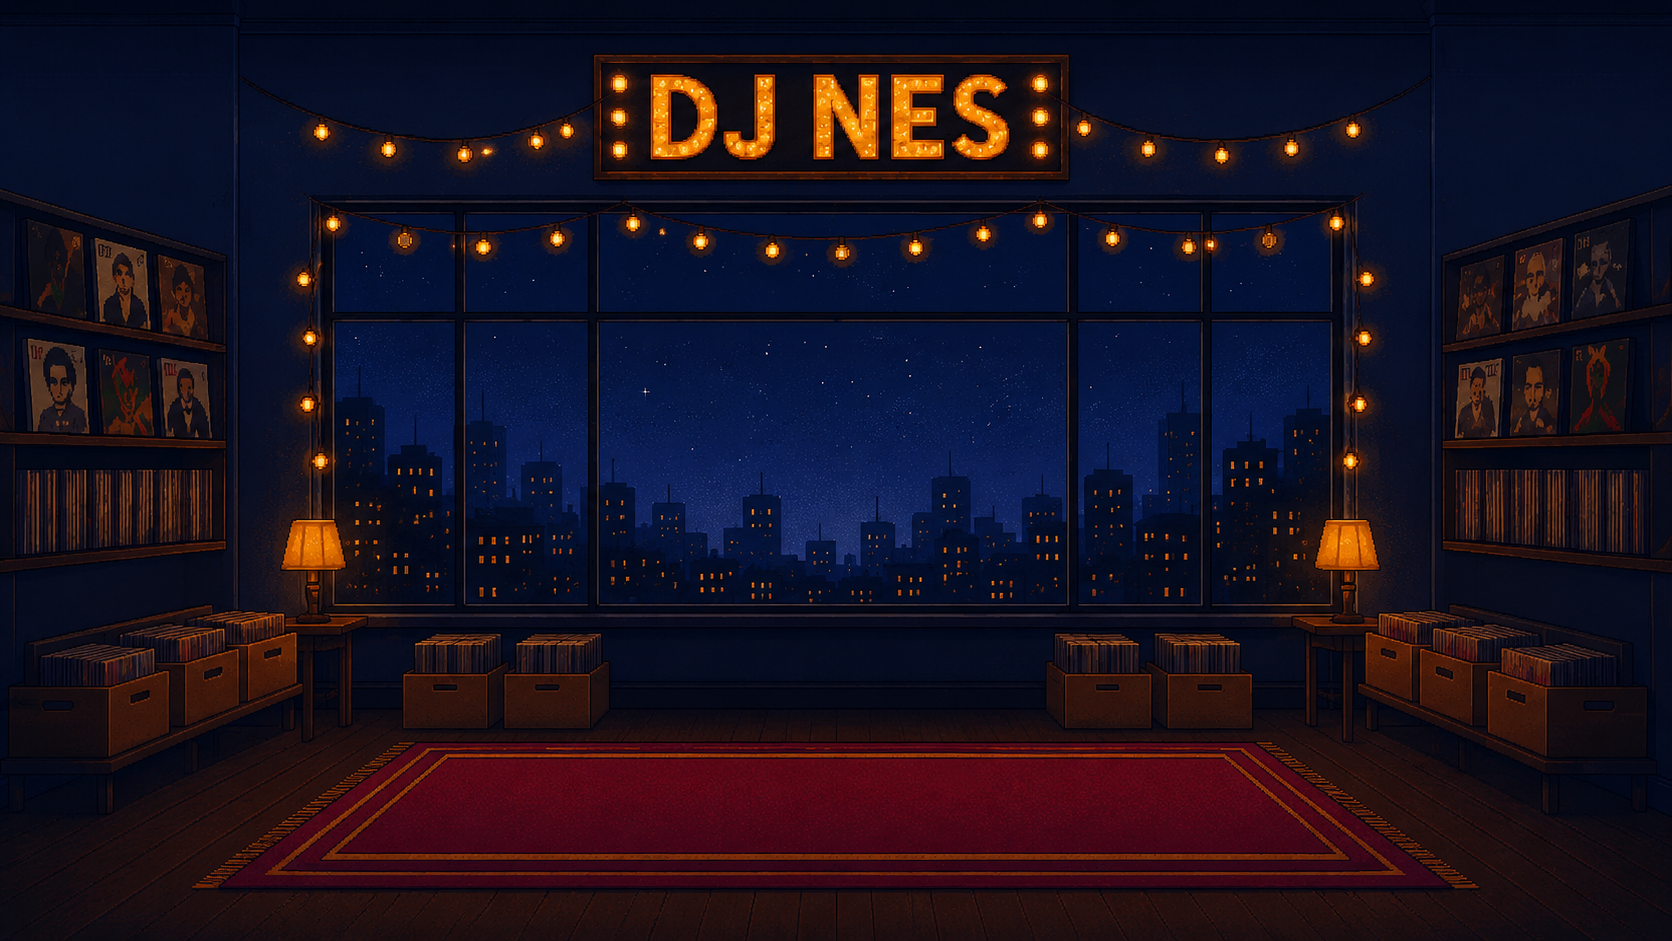
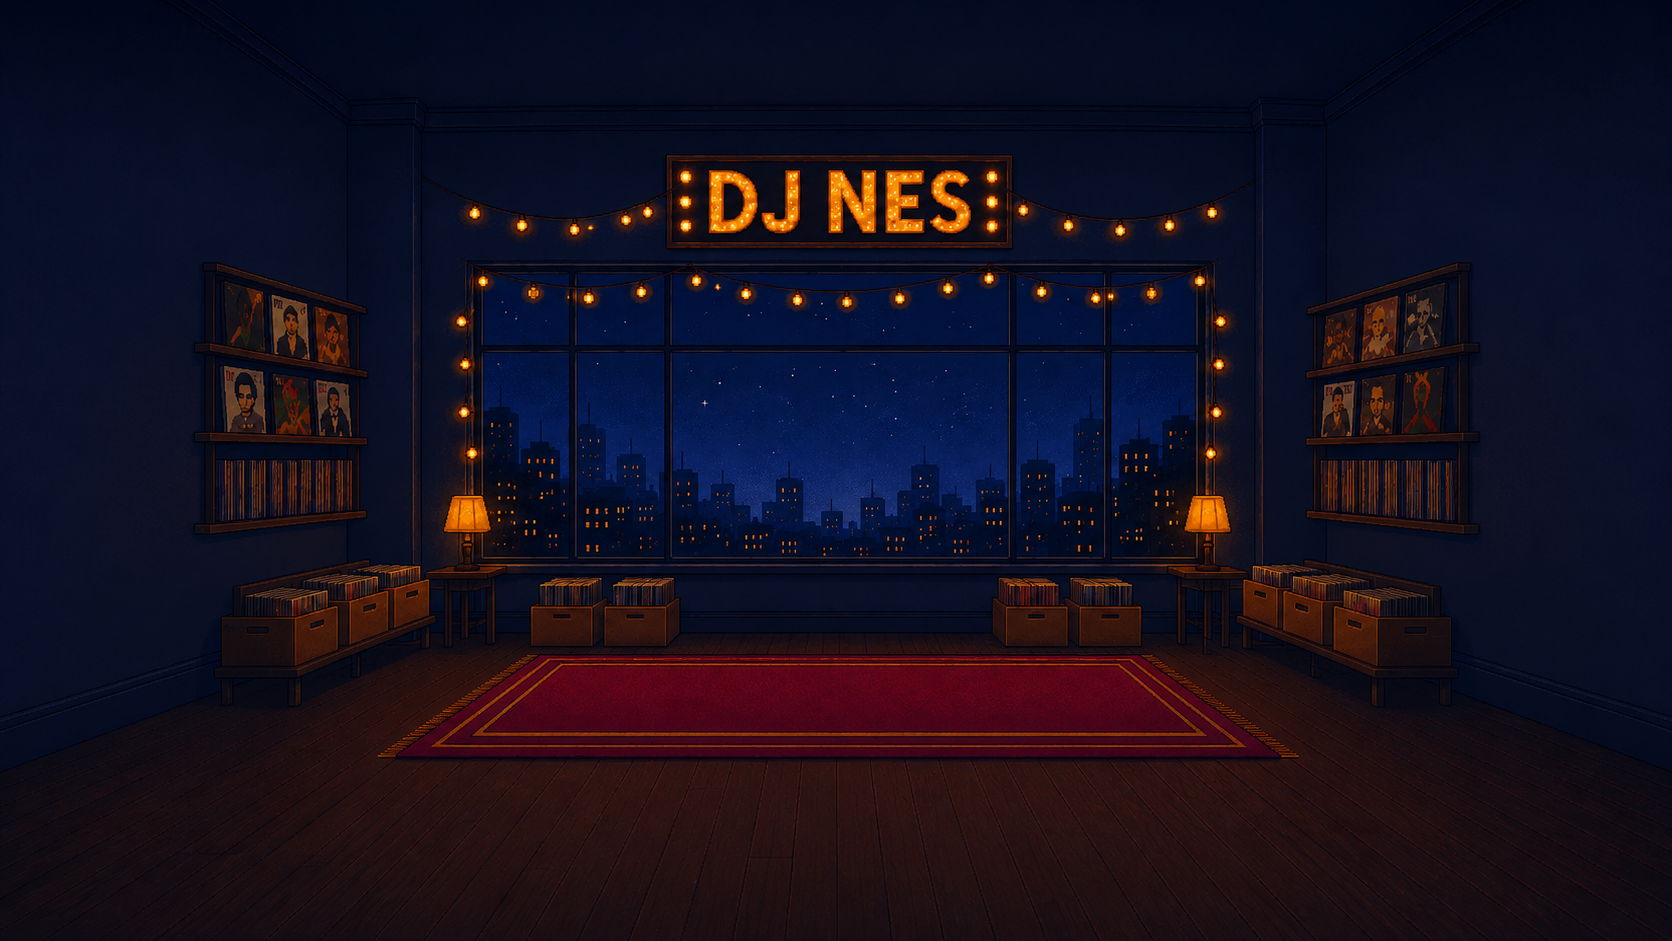
Add files via upload

diff --git a/src/styles.css b/src/styles.css
@@ -1013,3 +1013,43 @@ html, body, #app {
 .fill-right::after {
   background: linear-gradient(270deg, rgba(7, 16, 31, 0), rgba(7, 16, 31, 0.12));
 }
+
+
+/* ===========================================================
+   v1.10 seam-blend polish.
+   New room core has more breathing room at the edges. The fill zones
+   now overlap slightly behind the core room so seams are hidden.
+   =========================================================== */
+
+.stage {
+  --seam-overlap: 8px;
+}
+
+.fill-top {
+  height: max(0px, calc(var(--scene-top) + var(--seam-overlap)));
+}
+
+.fill-top .fill-img {
+  bottom: calc(-1 * var(--seam-overlap));
+}
+
+.fill-bottom {
+  height: max(0px, calc(100vh - var(--scene-bottom) + var(--seam-overlap)));
+}
+
+.fill-bottom .fill-img {
+  top: calc(-1 * var(--seam-overlap));
+}
+
+.fill-left,
+.fill-right {
+  width: max(0px, calc(var(--scene-left) + var(--seam-overlap)));
+}
+
+.fill-left .fill-img {
+  right: calc(-1 * var(--seam-overlap));
+}
+
+.fill-right .fill-img {
+  left: calc(-1 * var(--seam-overlap));
+}
